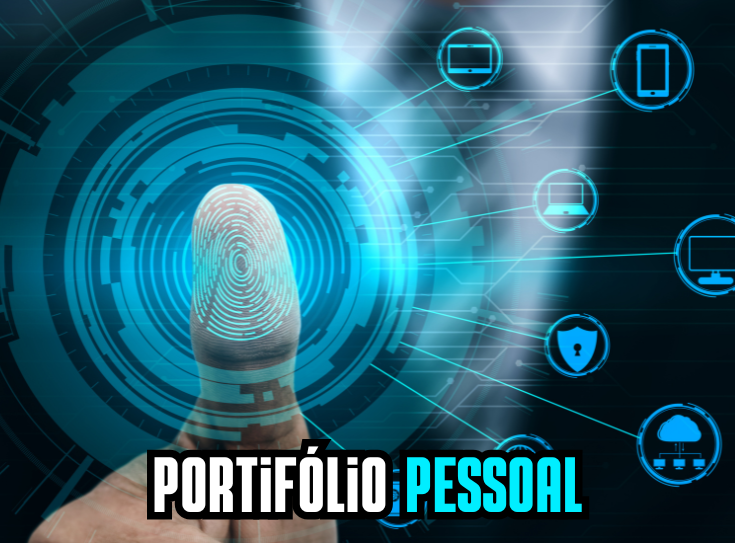
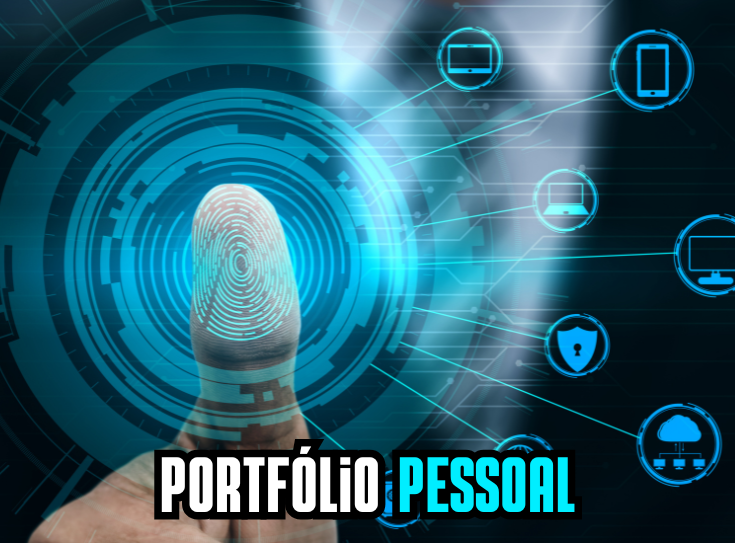
atualizacao-06.02 Commit

Changed region(s): [[0.1796, 0.7956, 0.8082, 0.9724]]

diff --git a/index.html b/index.html
@@ -3,7 +3,7 @@
 <head>
     <meta charset="UTF-8">
     <meta http-equiv="X-UA-Compatible" content="IE=edge">
-    <title>Gabriel Teodoro Pág. portifolio Pessoal</title>
+    <title>Gabriel Teodoro Pág. portfolio Pessoal</title>
     <link rel="stylesheet" href="stylesheet.css">
     <link href='https://unpkg.com/boxicons@2.1.4/css/boxicons.min.css' rel='stylesheet'>
     <script src="https://unpkg.com/typed.js@2.1.0/dist/typed.umd.js"></script>
@@ -53,11 +53,13 @@
             <h2>Sobre <span>Mim</span></h2>
             <h4>Analista de Testes | Qualidade de Software | Analista de QA | E-commerce | B2B | Integração de Sistemas</h4>
 
-            <p>Profissional com experiência sólida em testes de integração e qualidade, com habilidade para identificar desafios e propor soluções eficientes. Persistente e sempre em busca de aprendizado, estou determinado a crescer dentro da área de tecnologia, buscando oportunidades que ampliem minha atuação em integração de sistemas. Acredito na importância da colaboração e da troca de conhecimento para alcançar os melhores resultados! Fora do mundo da tecnologia, gosto de relaxar com maratonas de séries, explorar novos jogos, treinar e praticar esportes. Também aprecio momentos de leitura e música, que me ajudam a recarregar as energias e estimular a criatividade.</p>
+            <p>Profissional dedicado à <strong>qualidade de software</strong>, com sólida experiência em <strong>testes de integração</strong>. Hábil em <strong>testes manuais</strong> e logo também <strong>automatizados</strong>, <strong>validação de APIs e integração de sistemas</strong>, sempre buscando aprimorar processos e elevar a qualidade dos produtos.
+
+                Valorizo a colaboração e a troca de conhecimento para alcançar os melhores resultados. Sou persistente e estou em constante busca de aprimoramento técnico e pessoal.
                 
-            <p>Vamos transformar os testes em algo tão eficiente que nem o erro vai querer aparecer? Vamos marcar um papo! Estou empolgado para compartilhar um pouco do meu mundo com você e, quem sabe, colaborar em projetos incríveis!</p>
+                Fora da tecnologia, gosto de maratonar séries, explorar novos jogos, treinar e praticar esportes. Aprecio momentos de leitura e música para recarregar as energias e estimular a criatividade.</p>
                 
-            <p>Pronto para explorar? Vamos nessa! 🚀</p>
+            <p>Animado para novos desafios! Vamos conversar sobre qualidade de software e explorar soluções inovadoras? 🚀</p>
 
             <a href="#services" class="btn-box">Mais Sobre Mim</a>
         </div>
@@ -184,7 +186,7 @@
                         <circle class="progress-bar" cx="100" cy="100" r="80"></circle>
                         <circle class="path path-1" cx="100" cy="100" r="80"></circle>
                     </svg>
-                    <div class="percentage">85%</div>
+                    <div class="percentage">95%</div>
                     <div class="text">Criatividade</div>
                 </div>
         
@@ -194,7 +196,7 @@
                         <circle class="progress-bar" cx="100" cy="100" r="80"></circle>
                         <circle class="path path-2" cx="100" cy="100" r="80"></circle>
                     </svg>
-                    <div class="percentage">75%</div>
+                    <div class="percentage">90%</div>
                     <div class="text">Comunicação</div>
                 </div>
         
@@ -204,7 +206,7 @@
                         <circle class="progress-bar" cx="100" cy="100" r="80"></circle>
                         <circle class="path path-3" cx="100" cy="100" r="80"></circle>
                     </svg>
-                    <div class="percentage">70%</div>
+                    <div class="percentage">85%</div>
                     <div class="text">Solução de problemas</div>
                 </div>
         
@@ -214,7 +216,7 @@
                         <circle class="progress-bar" cx="100" cy="100" r="80"></circle>
                         <circle class="path path-4" cx="100" cy="100" r="80"></circle>
                     </svg>
-                    <div class="percentage">95%</div>
+                    <div class="percentage">100%</div>
                     <div class="text">Trabalho em equipe</div>
                 </div>
             </div>
@@ -272,7 +274,7 @@
         <div class="contact-text">
             <h2>Entre em <span>Contato</span></h2>
             <h4>Vamos Trabalhar <span>Juntos?</span></h4>
-            <p>Agradeço por dedicar um tempo para saber um pouco sobre mim, fiz esse portifolio pessoal pensando nessa proximidade inicial! Acredito que minhas habilidades e experiências podem agregar valor significativo, o que acha de uma conversa por chamada de video ou frente a frente? Estou à disposição para responder qualquer pergunta e explorar como podemos trabalhar juntos para alcançar grandes resultados.
+            <p>Agradeço por dedicar um tempo para saber um pouco sobre mim, fiz esse portfolio pessoal pensando nessa proximidade inicial! Acredito que minhas habilidades e experiências podem agregar valor significativo, o que acha de uma conversa por chamada de video ou frente a frente? Estou à disposição para responder qualquer pergunta e explorar como podemos trabalhar juntos para alcançar grandes resultados.
             
                 Aguardo seu contato!</p>
             <div class="contact-list">
@@ -303,7 +305,7 @@
     </section>
 
     <div class="last-text">
-        <p>Site (portifolio) desenvolvido por Gabriel Teodoro - 2025</p>
+        <p>Site (portfolio) desenvolvido por Gabriel Teodoro - 2025</p>
     </div>
     <a href="#" class="top"><i class='bx bx-up-arrow-alt'></i></a>
 

diff --git a/stylesheet.css b/stylesheet.css
@@ -792,25 +792,25 @@ section {
 
 @keyframes animate-path1 {
     100% {
-        stroke-dashoffset: 70;
+        stroke-dashoffset: 20;
     }
 }
 
 @keyframes animate-path2 {
     100% {
-        stroke-dashoffset: 125;
+        stroke-dashoffset: 30;
     }
 }
 
 @keyframes animate-path3 {
     100% {
-        stroke-dashoffset: 140;
+        stroke-dashoffset: 50;
     }
 }
 
 @keyframes animate-path4 {
     100% {
-        stroke-dashoffset: 20;
+        stroke-dashoffset: 0;
     }
 }
 
